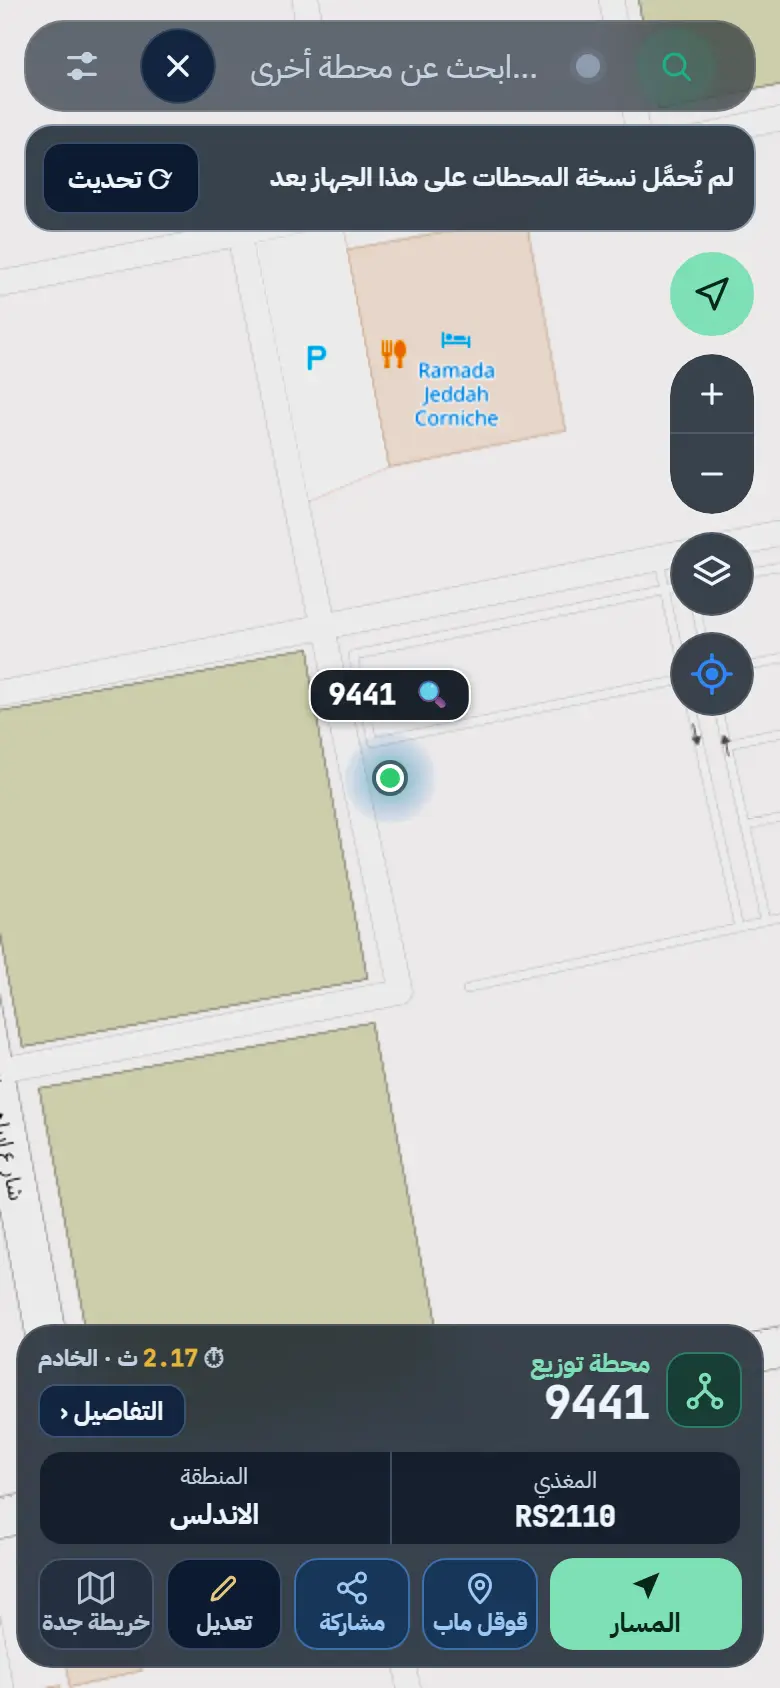
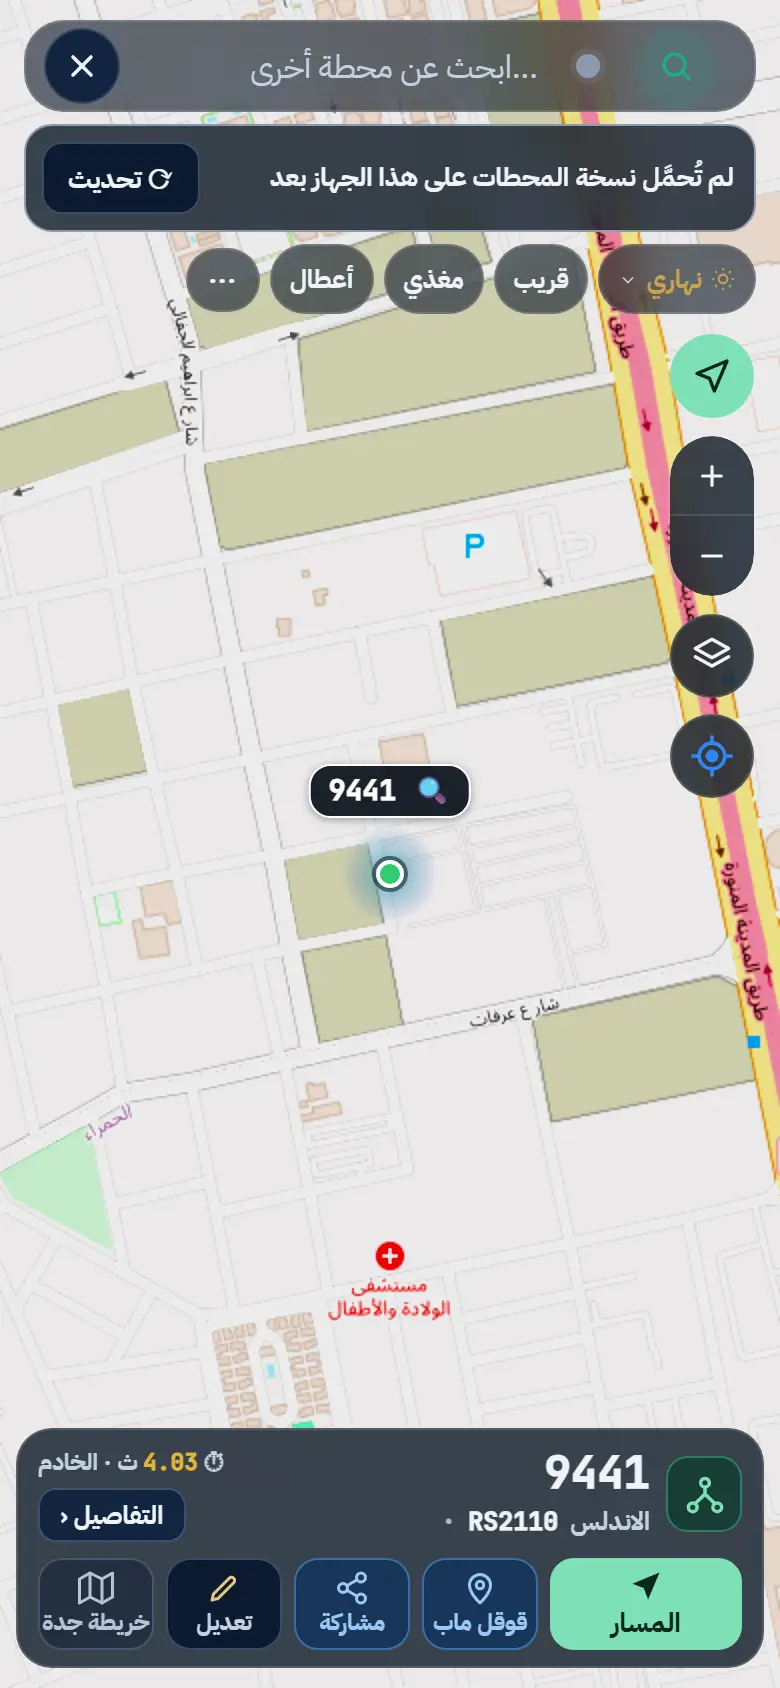
إعادة التصميم — صف الأدوات ظاهر في وضع البحث، ومسافة القريبة، وبطاقة بسطر معلومات، وتكبير 16
- وضع البحث: صف الأدوات (النمط، قريب، مغذي، أعطال، ⋯) ظاهر تلقائيًا ويتمرر أفقيًا؛ وفي الوضع العادي من أيقونته
- «قريب»: كل دبوس فيه رقم المحطة وتحته مسافتها من المحطة المبحوث عنها
- البطاقة: الرقم وتحته سطر واحد (الحي · المغذي · «N محطة ›» يعرض محطات المغذي)، والأزرار بأيقوناتها وأسمائها — 128 نقطة
- تكبير المحطة 16 بدل 18 (والقريبة 16 بدل 17): الخريطة بكامل الشاشة فيظهر الحي والشوارع حول المحطة
- الجولة والاختبارات محدّثة

diff --git a/components/nearby-layer.js b/components/nearby-layer.js
@@ -30,12 +30,17 @@
     if (km <= 0.3) return { tier: 1, color: '#4DD6B5' };
     return { tier: 2, color: '#A8B5C2' };
   }
-  function pinIcon_(s, t) {
+  /* المسافة بصيغة قصيرة (م تحت الكيلو) — the distance, short (metres under a kilometre) */
+  function dist_(km) { return km < 1 ? Math.round(km * 1000) + ' م' : (Math.round(km * 10) / 10) + ' كم'; }
+  /* withDist: القريبة — الرقم وتحته المسافة من المحطة المبحوث عنها (نموذج محمد 20 أكتوبر)؛ المغذي: الرقم وحده
+   * withDist: nearby — the number with the distance from the searched station under it; feeder: the number alone */
+  function pinIcon_(s, t, withDist) {
     const scale = t.tier === 0 ? 1 : t.tier === 1 ? 0.92 : 0.82, opacity = t.tier === 0 ? 1 : t.tier === 1 ? 0.92 : 0.72;
-    const w = Math.round(48 * scale), h = Math.round(22 * scale);
+    const w = Math.round(52 * scale), h = Math.round((withDist ? 36 : 22) * scale);
     return global.L.divIcon({
       className: '',
-      html: '<div class="nearby-pin-wrap" style="transform:scale(' + scale + ');opacity:' + opacity + '"><div class="nearby-pin-card" style="border-color:' + t.color + '">' + (s.type === 'تحويل' ? '⚡' : '') + H.esc(s.id) + '</div>' +
+      html: '<div class="nearby-pin-wrap" style="transform:scale(' + scale + ');opacity:' + opacity + '"><div class="nearby-pin-card' + (withDist ? ' has-dist' : '') + '" style="border-color:' + t.color + '">' +
+        '<span>' + (s.type === 'تحويل' ? '⚡' : '') + H.esc(s.id) + '</span>' + (withDist ? '<small class="nearby-pin-dist" style="color:' + t.color + '">' + dist_(s._dist) + '</small>' : '') + '</div>' +
         '<div class="nearby-pin-tail" style="border-top-color:' + t.color + '"></div></div>',
       iconSize: [w, h + 6], iconAnchor: [w / 2, h + 6]
     });
@@ -83,7 +88,7 @@
       else if (zoom <= 15) show = data.slice().sort(function (a, b) { return a._dist - b._dist; }).slice(0, NEAREST);
       else { const b = map.getBounds(); show = data.filter(function (s) { return b.contains([s.lat, s.lng]); }); }
       show.forEach(function (s) {
-        const mk = L.marker([s.lat, s.lng], { icon: pinIcon_(s, tier(s._dist)) });
+        const mk = L.marker([s.lat, s.lng], { icon: pinIcon_(s, tier(s._dist), mode === 'nearby') });
         mk.bindPopup(popup_(s, deps.googleMapsUrl ? deps.googleMapsUrl(s) : ''));
         mk.bindTooltip(H.esc(s.id) + ' — ' + s._dist.toFixed(2) + ' كم', { direction: 'top', offset: [0, -16] });
         mk._secStation = s;
@@ -114,7 +119,7 @@
       data = (res.stations || []).filter(function (s) { return Q.hasCoordinates(s) && !(String(s.id) === String(st.id) && s.type === st.type); })
         .map(function (s) { const d = typeof s.distanceKm === 'number' ? s.distanceKm : (hasCenter ? Q.distanceKm(center, { lat: Number(s.lat), lng: Number(s.lng) }) : 0); return Object.assign({}, s, { lat: Number(s.lat), lng: Number(s.lng), _dist: d }); });
       syncButtons_(); // العدد صار معروفًا / the count is now known
-      if (data.length && hasCenter) { if (view.centerOn) view.centerOn([center.lat, center.lng], 17); else map.setView([center.lat, center.lng], 17); } // في المساحة المرئية / in the visible area
+      if (data.length && hasCenter) { if (view.centerOn) view.centerOn([center.lat, center.lng], 16); else map.setView([center.lat, center.lng], 16); } // في المساحة المرئية / in the visible area
       render();
       if (!toasted[m]) { view.toast(m === 'nearby' ? 'تم عرض ' + data.length + ' محطة قريبة' : 'تم عرض ' + data.length + ' محطة بالمغذي'); toasted[m] = true; }
     }

diff --git a/config/جولة_تعريفية.js b/config/جولة_تعريفية.js
@@ -34,13 +34,13 @@
       { img: 'assets/tour/06-state-offline.webp', rect: { x: 0, y: 68, w: 390, h: 52 },
         title: '🔴 أحمر: لا يوجد اتصال بالإنترنت',
         text: 'إذا انقطع الإنترنت يتحول الشريط إلى الأحمر ويذكر آخر وقت حُدّثت فيه نسختك — والبحث والخريطة والملاحة تعمل منها.\nوإن لم تكن على الجهاز نسخة يقول ذلك صراحة: «لا توجد نسخة ولا يوجد إنترنت».' },
-      { img: 'assets/tour/07-search-server.webp', rect: { x: 19, y: 671, w: 93, h: 17 },
+      { img: 'assets/tour/07-search-server.webp', rect: { x: 19, y: 723, w: 93, h: 17 },
         title: '⏱ البحث قبل تحميل النسخة',
         text: 'قبل اكتمال النسخة يذهب البحث إلى الخادم وينتظر رده — وتظهر المدة الفعلية ومصدرها «الخادم» في رأس بطاقة المحطة.\nوبدون إنترنت لا يمكن البحث قبل تحميل النسخة.' },
-      { img: 'assets/tour/08-search-local.webp', rect: { x: 19, y: 671, w: 105, h: 17 },
+      { img: 'assets/tour/08-search-local.webp', rect: { x: 19, y: 719, w: 105, h: 17 },
         title: '⚡ البحث بعد تحميل النسخة',
         text: 'بعد التحميل تظهر النتيجة من جهازك في جزء من الألف من الثانية — «⚡ … ث · جهازك» في رأس البطاقة — حتى بدون إنترنت.\nوالنسخة تتحدث تلقائيًا بتغييرات الزملاء.' },
-      { img: 'assets/tour/09-station-sheet.webp', rect: { x: 8, y: 662, w: 374, h: 172 }, point: { x: 20, y: 730, w: 117, h: 39 },
+      { img: 'assets/tour/09-station-sheet.webp', rect: { x: 8, y: 706, w: 374, h: 128 }, point: { x: 133, y: 743, w: 82, h: 28 },
         title: '📍 بطاقة المحطة فوق الخريطة',
         text: 'الخريطة بكامل الصفحة والمحطة في منتصف الجزء الظاهر منها، وأسفلها بطاقة مختصرة: النوع والرقم، والمغذي والمنطقة وعدد محطات المغذي، وصف أزرار المسار وقوقل ماب والمشاركة والتعديل.\nاضغط «عدد محطات المغذي» لتظهر على الخريطة، و«آخر تحديث» للنسخة تجده في «التفاصيل».' },
       { img: 'assets/tour/10-details.webp', rect: { x: 16, y: 279, w: 358, h: 52 },
@@ -52,7 +52,7 @@
       { img: 'assets/tour/12-outages-input.webp', rect: { x: 16, y: 455, w: 358, h: 285 }, point: { x: 261, y: 455, w: 113, h: 96 },
         title: '⚡ بحث الأعطال: أرقام عدة محطات',
         text: 'في «البيانات» اضغط بطاقة «الأعطال»، فتظهر تحتها خانة الأرقام.\nاكتب أرقام المحطات التي فيها العطل (حتى 15 محطة) وافصل بينها بمسافة أو فاصلة، ثم اضغط بحث.' },
-      { img: 'assets/tour/13-outages-map.webp', rect: { x: 106, y: 98, w: 178, h: 33 },
+      { img: 'assets/tour/13-outages-map.webp', rect: { x: 106, y: 141, w: 178, h: 33 },
         title: '🗺 نتيجة بحث الأعطال على الخريطة',
         text: 'تظهر المحطات بالأحرف A ثم B ثم C بترتيب كتابتك، مع خط يربطها.\nوزر «الانتقال بالترتيب على قوقل ماب» يفتح مسارًا جاهزًا يمر بها كلها.' },
       { img: 'assets/tour/14-ruler.webp', rect: { x: 12, y: 105, w: 366, h: 96 },

diff --git a/components/station-card.js b/components/station-card.js
@@ -95,8 +95,15 @@
       '<div class="sheet-head">' +
         '<div class="sheet-line">' +
           '<span class="sheet-badge ' + kind + '" aria-hidden="true">' + (TYPE_ICON[s.type] || TYPE_ICON['توزيع']) + '</span>' +
-          '<div class="sheet-title"><span class="sheet-type ' + kind + '">' + (sub ? 'محطة تحويل' : 'محطة توزيع') + '</span>' +
-            '<bdi class="sheet-id">' + esc(s.id) + '</bdi><span class="sheet-explore-txt" data-role="explore-txt"></span></div>' +
+          // الرقم كبيرًا، وتحته الحي والمغذي وعدد محطاته (زر يعرضها) — النوع يدل عليه لون الرمز ويُقرأ لقارئ الشاشة
+          // The number large, under it the district, the feeder and its count (a button showing them) — the type is the symbol's color, read aloud
+          '<div class="sheet-title"><span class="sheet-type sr-only ' + kind + '">' + (sub ? 'محطة تحويل' : 'محطة توزيع') + '</span>' +
+            '<bdi class="sheet-id">' + esc(s.id) + '</bdi><span class="sheet-explore-txt" data-role="explore-txt"></span>' +
+            ((s.region || s.feeder || fc != null) ? '<div class="sheet-sub">' +
+              (s.region ? '<span class="ss-region">' + esc(s.region) + '</span>' : '') +
+              (s.feeder ? '<bdi class="ss-feeder">' + esc(s.feeder) + '</bdi>' : '') +
+              (fc != null ? '<button type="button" class="ss-count st-feeder" data-act="feeder" title="عرض محطات المغذي على الخريطة"><b class="st-count">' + fc + '</b> محطة ›</button>' : '') +
+            '</div>' : '') + '</div>' +
           // وضع الاستكشاف (قريب/مغذي): العدد والمسار وإنهاء العرض في السطر نفسه — explore mode: the count, route and end in the same line
           '<div class="sheet-explore">' +
             '<button type="button" class="sheet-go" data-act="navigate"' + (coords ? '' : ' disabled') + '>' + BTN_ICON.navigate + '<span>المسار</span></button>' +
@@ -104,11 +111,6 @@
           '<div class="sheet-side">' + searchTime_(s) +
             (deps && deps.onDetails ? '<button type="button" class="sheet-more" data-act="details">التفاصيل ‹</button>' : '') + '</div>' +
         '</div>' +
-        ((s.feeder || s.region || fc != null) ? '<div class="sb-data-row sheet-meta">' +
-          (s.feeder ? '<div class="sb-data-cell"><div class="cell-label">المغذي</div><div class="cell-value">' + esc(s.feeder) + '</div></div>' : '') +
-          (s.region ? '<div class="sb-data-cell"><div class="cell-label">المنطقة</div><div class="cell-value ar">' + esc(s.region) + '</div></div>' : '') +
-          (fc != null ? '<button type="button" class="sb-data-cell st-feeder" data-act="feeder" title="عرض محطات المغذي على الخريطة"><div class="cell-label">عدد محطات المغذي</div><div class="cell-value st-count">' + fc + '</div></button>' : '') +
-        '</div>' : '') +
       '</div>' +
       (coords ? '' : '<div class="st-note-warn" data-role="no-coords">' + NO_COORDS_MSG + '</div>') +
     '</div>';

diff --git a/components/map-view.js b/components/map-view.js
@@ -7,7 +7,8 @@
  *   نهاري 6–18 وليلي غير ذلك ويُعاد حسابه كل 5 دقائق؛ الليلي = خريطة OSM نفسها بطبقة .map-night-tiles (قرار «ب» المعدّل).
  * - خريطة جدة المحفوظة (offline-map-ui) تلقائيًا: بلا إنترنت، أو 4 صور تعذّر تحميلها خلال 15 ث ← المحفوظة دقيقة ثم
  *   تُجرَّب العادية؛ بنفس نمط النهاري/الليلي (الأقمار بلا إنترنت ← النهاري). عودة الإنترنت ← العادية فورًا.
- * - علامة المحطة المختارة (🔍 الرقم + هالة ونبض) والانتقال إليها بتكبير 18.
+ * - علامة المحطة المختارة (🔍 الرقم + هالة ونبض) والانتقال إليها بتكبير 16: الخريطة بكامل الشاشة فيظهر الحي والشوارع حولها
+ *   (كان 18 حين كانت الخريطة في حيز صغير — ملاحظة محمد 20 أكتوبر).
  * - شريط الأدوات: شريح النوع ثم مكان لأزرار المكوّنات الأخرى (القريبة والمغذي، الأعطال، المزيد) — لا منطق لها هنا.
  * - سطر التلميح أسفل الشريط (hint) وتنبيه عائم قصير (toast) للمكوّنات.
  * V2: نص رقم المحطة على العلامة يُكتب نصًا؛ القائمة تُغلق بـ Esc أيضًا؛ تغيّر الطبقة يُبلَّغ (onLayerChange) لتعديل
@@ -15,7 +16,7 @@
  *
  * The map: its four styles, the saved Jeddah map automatically, zoom, the station marker, the toolbar. V1's design and
  * behavior as is (Jeddah view, mode chip saved, auto = day 6–18, night = the same OSM tiles with the night filter, the
- * saved Jeddah map offline or after 4 failed tiles in 15 s, station marker at zoom 18, toolbar slot, hint and toast).
+ * saved Jeddah map offline or after 4 failed tiles in 15 s, station marker at zoom 16 (the full-screen map shows the streets around it), toolbar slot, hint and toast).
  * V2: the marker's number set as text; Esc closes the panel; layer changes are reported (onLayerChange); destroy cleans up.
  * ============================================================ */
 (function (global) {
@@ -24,7 +25,7 @@
   const CONFIG = global.SEC2_CONFIG, H = global.SecHtml;
   if (!CONFIG || !H) throw new Error('map-view.js يحتاج الإعدادات وhtml.js قبله / needs config and html.js first');
   const TILES = CONFIG.MAP_TILES, KEY = CONFIG.STORAGE_KEYS.MAP_MODE;
-  const CENTER = [21.54, 39.19], START_ZOOM = 11, STATION_ZOOM = 18;
+  const CENTER = [21.54, 39.19], START_ZOOM = 11, STATION_ZOOM = 16;
   const INSET_GAP = 12; // هامش المساحة المرئية تحت ما يطفو فوق الخريطة / the visible area's margin under what floats over the map
   const AUTO_REFRESH_MS = 5 * 60 * 1000, TILE_ERRORS = 4, TILE_WINDOW_MS = 15000, FALLBACK_MS = 60000, TOAST_MS = 2000;
   const MODES = ['auto', 'light', 'dark', 'satellite'];

diff --git a/styles/station-card.css b/styles/station-card.css
@@ -293,3 +293,16 @@ body.nav-full .station-sheet{display:none !important;}
 .sheet-go svg{width:16px;height:16px;}
 .sheet-go:disabled{opacity:.45;cursor:not-allowed;}
 .sheet-end{background:var(--bg-card);border:1px solid var(--border-strong);color:var(--text-primary);}
+
+/* ===== البطاقة بسطر معلومات واحد (نموذج محمد 20 أكتوبر): الرقم، وتحته الحي · المغذي · «164 محطة ›»؛ والأزرار بأسمائها كما هي.
+   The card with one info line: the number, under it district · feeder · «164 stations ›»; the buttons keep their labels. ===== */
+.sr-only{position:absolute;width:1px;height:1px;padding:0;margin:-1px;overflow:hidden;clip:rect(0,0,0,0);white-space:nowrap;border:0;}
+.sheet-sub{display:flex;flex-wrap:wrap;align-items:center;gap:2px 6px;margin-top:2px;font-size:12.5px;font-weight:600;color:var(--text-secondary);line-height:1.4;}
+.sheet-sub > * + *::before{content:'·';margin-inline-end:6px;color:var(--text-muted);}
+.sheet-sub .ss-feeder{font-family:'JetBrains Mono',monospace;font-weight:800;color:var(--text-primary);}
+.station-sheet .sheet-sub button.ss-count{display:inline-flex;align-items:center;gap:3px;min-height:28px;padding:0 8px;border-radius:8px;cursor:pointer;
+  font-family:inherit;font-size:12.5px;font-weight:700;background:var(--c-dist-bg);border:1px solid var(--c-dist-line);color:var(--c-dist-fg);}
+.station-sheet .sheet-sub button.ss-count::before{display:none;}
+.station-sheet .sheet-sub .st-count{font-size:13px;color:inherit;}
+.station-sheet.is-explore .sheet-sub{display:none;}
+.station-sheet .sb-top{padding-bottom:8px;}

diff --git a/styles/home.css b/styles/home.css
@@ -379,3 +379,8 @@ body:not(.nav-full) .view-map .ssb-status{display:flex;align-items:center;justif
 .map-status[data-sync="partial"]{border-color:var(--st-yellow);}
 .map-status[data-sync="pending"]{border-color:var(--st-orange);border-style:dashed;}
 .map-status-btn{flex-shrink:0;min-height:36px;padding:0 12px;border-radius:10px;border:1px solid var(--border-strong);background:var(--bg-card);color:var(--text-primary);font-family:inherit;font-size:13px;font-weight:700;cursor:pointer;}
+
+/* ===== وضع البحث: صف الأدوات (الأنماط، قريب، مغذي، أعطال، ⋯) ظاهر تلقائيًا ويتمرر أفقيًا، فلا ميزة مخفية خلف أيقونة؛
+   وفي الوضع العادي يُفتح من أيقونته (نموذج محمد 20 أكتوبر). Search mode: the tools row shows by itself and scrolls sideways. */
+body.search-mode:not(.nav-full) .view-map .globe-stage .map-toolbar-bar{display:flex;}
+body.search-mode:not(.nav-full) .view-map .ssb-tools{display:none;}

diff --git a/styles/map-view.css b/styles/map-view.css
@@ -153,3 +153,6 @@
 .district-label{display:inline-block;white-space:nowrap;padding:2px 8px;border-radius:8px;font-family:'IBM Plex Sans Arabic',sans-serif;font-size:12.5px;font-weight:700;line-height:20px;
   background:rgba(8,16,26,0.78);color:#FFFFFF;border:1px solid rgba(255,255,255,0.18);}
 [data-theme="light"] .district-label{background:rgba(255,255,255,0.88);color:#13243A;border-color:rgba(19,36,58,0.18);}
+/* دبوس القريبة: الرقم وتحته المسافة من المحطة المبحوث عنها (نموذج محمد 20 أكتوبر) — the nearby pin: number, distance under it */
+.nearby-pin-card.has-dist{height:auto;flex-direction:column;gap:0;padding:2px 8px;line-height:1.2;}
+.nearby-pin-dist{font-family:'IBM Plex Sans Arabic',sans-serif;font-size:10.5px;font-weight:700;}
